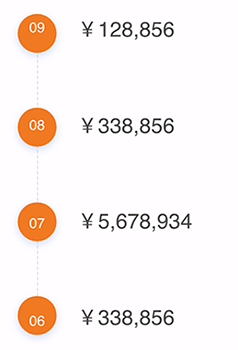
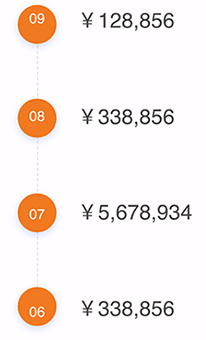
1

diff --git a/src/views/defaultMain/index.vue b/src/views/defaultMain/index.vue
@@ -285,11 +285,11 @@ export default {
   margin-bottom: 10px;
 }
 .app-rows .heighta {
-  height: 450px;
+  height: 380px;
 }
 .app-rows .heighta img {
-  width: 100%;
-  max-height: 360px;
+  max-width: 100%;
+  height: 300px;
 }
 .app-rows .heightb {
   height: 330px;
